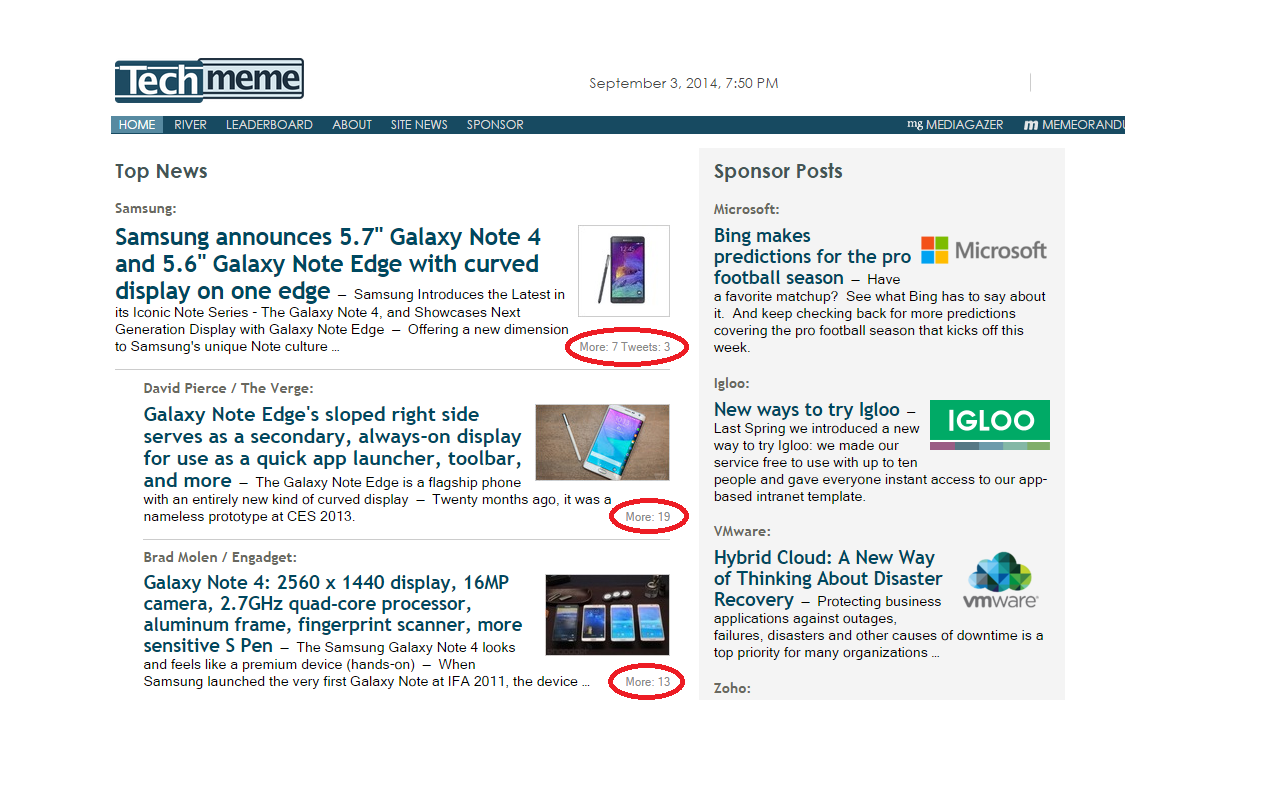
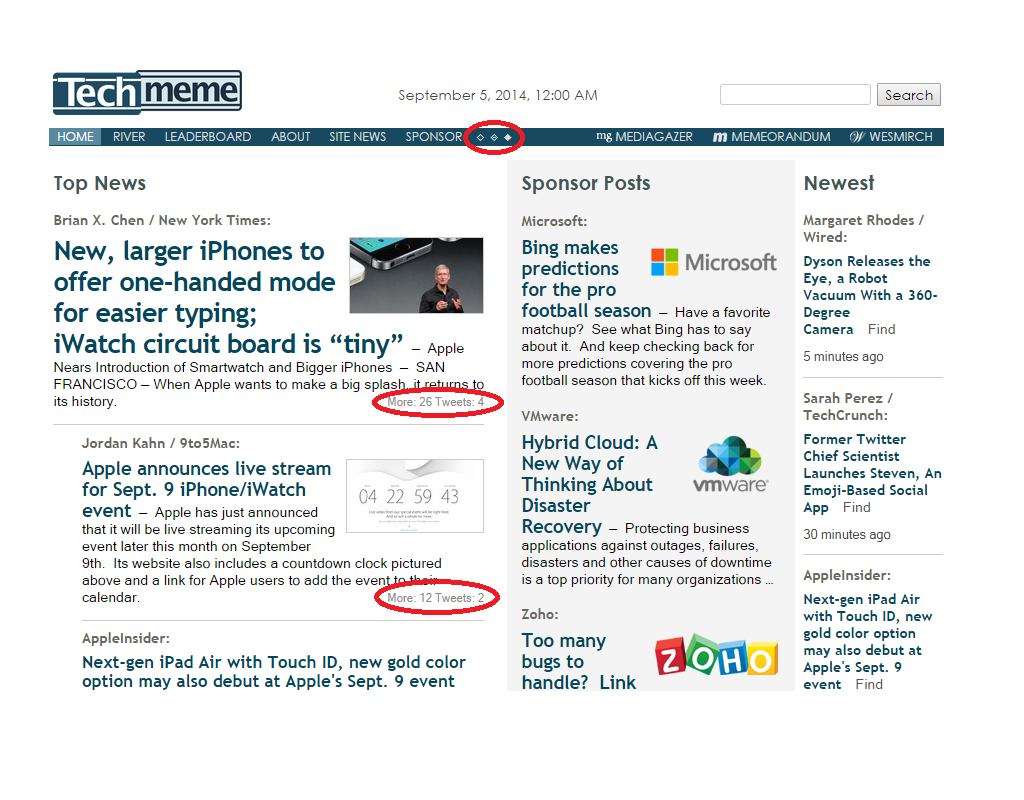
Added global none/summary/verbose buttons

Changed region(s): [[0.0312, 0.0625, 0.9375, 0.875]]

diff --git a/source/scripts/techmeme-less.js b/source/scripts/techmeme-less.js
@@ -1,6 +1,6 @@
 
 /*jslint regexp: true*/
-/*global document, alert*/
+/*global document, alert, chrome*/
 
 (function () {
     "use strict";
@@ -94,6 +94,15 @@
                 element.innerText = value.text;
                 element.textContent = value.text;
             }
+            if (value.src) {
+                element.src = value.src;
+            }
+            if (value.height) {
+                element.height = value.height;
+            }
+            if (value.width) {
+                element.width = value.width;
+            }
             if (value.id) {
                 element.id = value.id;
             }
@@ -177,20 +186,34 @@
         }
     }
 
-    function createOnclick(dNode, pNode, dxNode, pxNode) {
-        return function () {
-            if (isNodeShown(dNode)) {
-                hideNode(dNode);
-                showNode(pNode);
-                fixupHeight(pNode, pxNode);
-            } else if (isNodeShown(pNode)) {
-                hideNode(dNode);
-                hideNode(pNode);
+    function showHide(detail, mode) {
+        if (typeof mode === 'undefined') {
+            // Mode is not specified, so determine the mode from the current state of shown nodes
+            if (isNodeShown(detail.dNode)) {
+                mode = 2;
+            } else if (isNodeShown(detail.pNode)) {
+                mode = 0;
             } else {
-                showNode(dNode);
-                hideNode(pNode);
-                fixupHeight(dNode, dxNode);
+                mode = 1;
             }
+        }
+        if (mode === 2) {
+            hideNode(detail.dNode);
+            showNode(detail.pNode);
+            fixupHeight(detail.pNode, detail.pxNode);
+        } else if (mode === 0) {
+            hideNode(detail.dNode);
+            hideNode(detail.pNode);
+        } else {
+            showNode(detail.dNode);
+            hideNode(detail.pNode);
+            fixupHeight(detail.dNode, detail.dxNode);
+        }
+    }
+
+    function createOnclick(detail) {
+        return function () {
+            showHide(detail);
         };
     }
 
@@ -205,7 +228,8 @@
             poNodes = findChildrenWithClass(pNode, 'dbpt'),
             countsNode,
             counts,
-            recover = 1;
+            recover = 1,
+            detail;
 
         if (iiNode) {
             // Ensure the summary and verbose information are both hidden
@@ -216,10 +240,11 @@
                 counts = getCounts(doNodes[0]);
                 if (counts) {
                     if (counts.more || counts.tweets) {
+                        detail = { dNode: dNode, pNode: pNode, dxNode: dxNode, pxNode: pxNode };
                         countsNode = createElement('span', { text: makeCountsText(counts.more, counts.tweets),
                                                              className: 'techmemeless',
                                                              tooltip: "Show/hide 'More' and/or 'Tweets' information",
-                                                             onclick: createOnclick(dNode, pNode, dxNode, pxNode)
+                                                             onclick: createOnclick(detail)
                                                            });
                         iiNode.appendChild(countsNode);
                     }
@@ -237,12 +262,14 @@
             hideNode(pNode);
         }
 
-        return iNode;
+        return detail;
     }
 
     function addCounts() {
         var cluster = 0,
-            item;
+            item,
+            detail,
+            details = [ ];
 
         while (true) {
 
@@ -250,10 +277,12 @@
 
             while (true) {
 
-                if (!addCountsToItem(cluster, item)) {
+                detail = addCountsToItem(cluster, item);
+                if (!detail) {
                     break;
                 }
 
+                details.push(detail);
                 item += 1;
             }
 
@@ -263,7 +292,56 @@
 
             cluster += 1;
         }
+
+        return details;
     }
 
-    addCounts();
+    function createButtonOnclick(details, mode) {
+        return function () {
+            var i;
+            if (details && details instanceof Array) {
+                for (i = 0; i < details.length; i += 1) {
+                    showHide(details[i], mode);
+                }
+            }
+        };
+    }
+
+    function addButton(node, text, tooltip, details, mode) {
+        var button;
+        if (node && text) {
+            button = createElement('span', { text: text,
+                                             tooltip: tooltip,
+                                             className: 'techmemeless-button',
+                                             height: '12',
+                                             width: '12',
+                                             onclick: createButtonOnclick(details, mode)
+                                           });
+            node.appendChild(button);
+        }
+    }
+
+    function addButtons(details) {
+        var pagecont = findFirstChildWithClass(document.body, 'pagecont'),
+            navbar = findFirstChildWithClass(pagecont, 'navbar'),
+            navtabs = findFirstChildWithClass(navbar, 'navtabs');
+
+        if (navtabs) {
+            try {
+                // Unicode 25c7 - White diamond
+                // Unicode 25c8 - White diamond containing small black diamond
+                // Unicode 25c6 - Black diamond
+                // Reference: http://en.wikipedia.org/wiki/List_of_Unicode_characters#Block_Elements (expand to show '68 Block Elements')
+                addButton(navtabs, '\u25c7', "Hide 'More' and 'Tweets' information", details, 0);
+                addButton(navtabs, '\u25c8', "Show 'More' and 'Tweets' summary information", details, 1);
+                addButton(navtabs, '\u25c6', "Show 'More' and 'Tweets' verbose information", details, 2);
+            } catch (e) {
+            }
+        }
+    }
+
+    var details = addCounts();
+    if (details && (details instanceof Array) && details.length) {
+        addButtons(details);
+    }
 }());

diff --git a/Gruntfile.js b/Gruntfile.js
@@ -12,7 +12,10 @@ module.exports = function(grunt) {
                 src: [ './dist/techmeme-less.zip' ]
             },
             firefox: {
-                src: [ './dist/techmeme_less.xpi', './firefox/data/techmeme-less.css', './firefox/data/techmeme-less.js' ]
+                src: [ './dist/techmeme_less.xpi', 
+                       './firefox/data/css/techmeme-less.css', 
+                       './firefox/data/scripts/techmeme-less.js'
+                     ]
             },
         },
         jshint: {
@@ -56,10 +59,15 @@ module.exports = function(grunt) {
                     {
                         expand: true, 
                         flatten: true, 
-                        src: [ './source/css/*', './source/scripts/*' ], 
-                        dest: './firefox/data', 
-                        filter: 'isFile'
+                        src: [ './source/css/*' ], 
+                        dest: './firefox/data/css', 
                     },
+                    {
+                        expand: true, 
+                        flatten: true, 
+                        src: [ './source/scripts/*' ], 
+                        dest: './firefox/data/scripts', 
+                    }
                 ]
             }
         },

diff --git a/firefox/lib/main.js b/firefox/lib/main.js
@@ -4,6 +4,6 @@ var pageMod = require('sdk/page-mod'),
  
 pageMod.PageMod({
   include: '*.techmeme.com',
-  contentStyleFile: self.data.url('techmeme-less.css'),
-  contentScriptFile: self.data.url('techmeme-less.js'),
+  contentStyleFile: self.data.url('css/techmeme-less.css'),
+  contentScriptFile: self.data.url('scripts/techmeme-less.js'),
 });

diff --git a/source/css/techmeme-less.css b/source/css/techmeme-less.css
@@ -14,3 +14,15 @@
 .techmemeless:hover {
     text-decoration: underline;
 }
+
+.techmemeless-button {
+    color: #ddd;
+    padding-left: 2px;
+    padding-right: 2px;
+    cursor: pointer;
+}
+
+.techmemeless-button:hover {
+    color: #fff;
+    background:#578aa1;
+}
